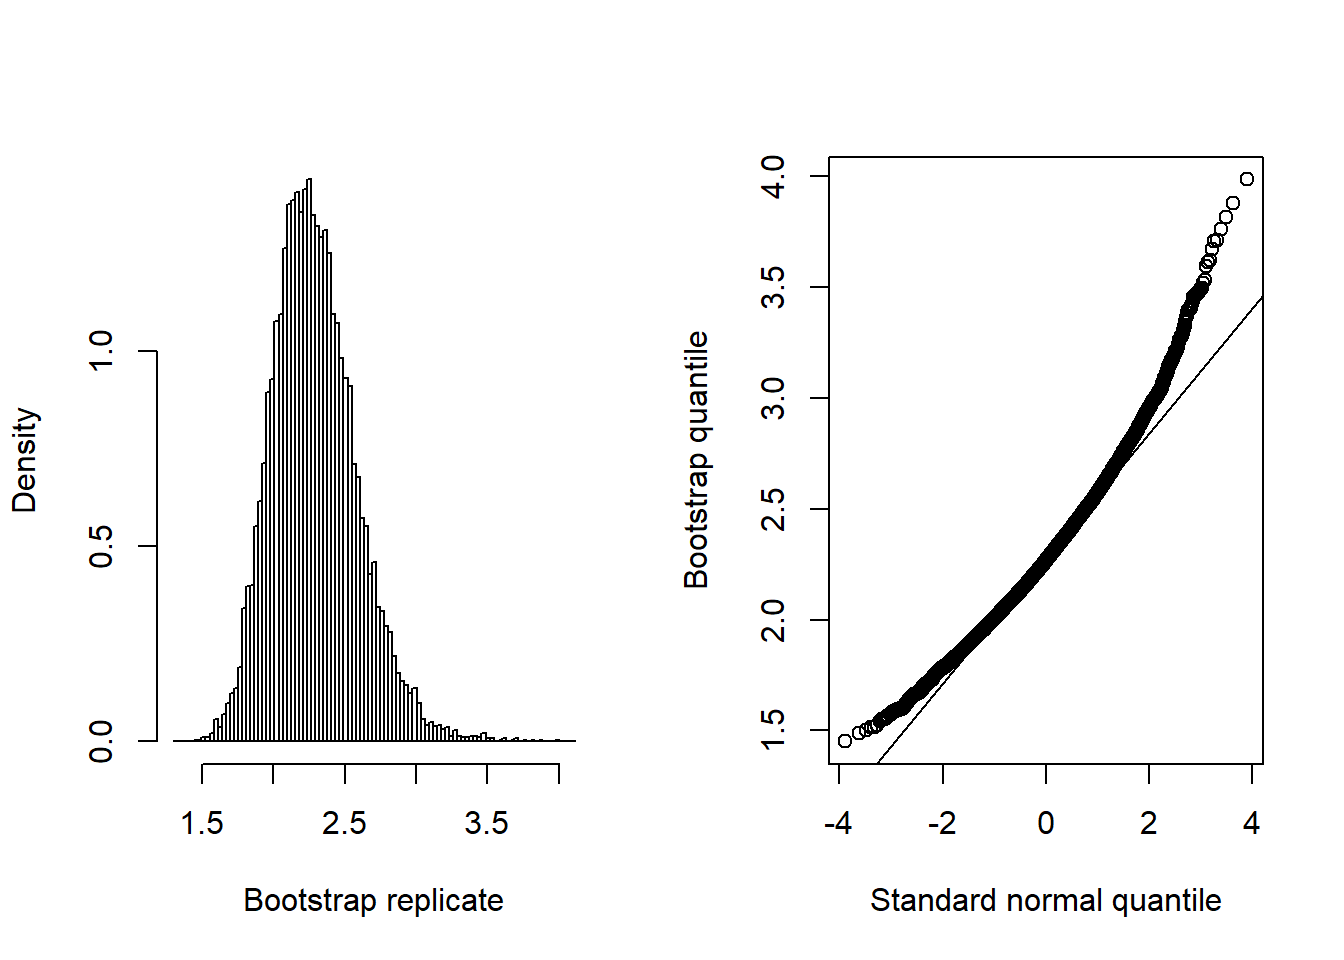
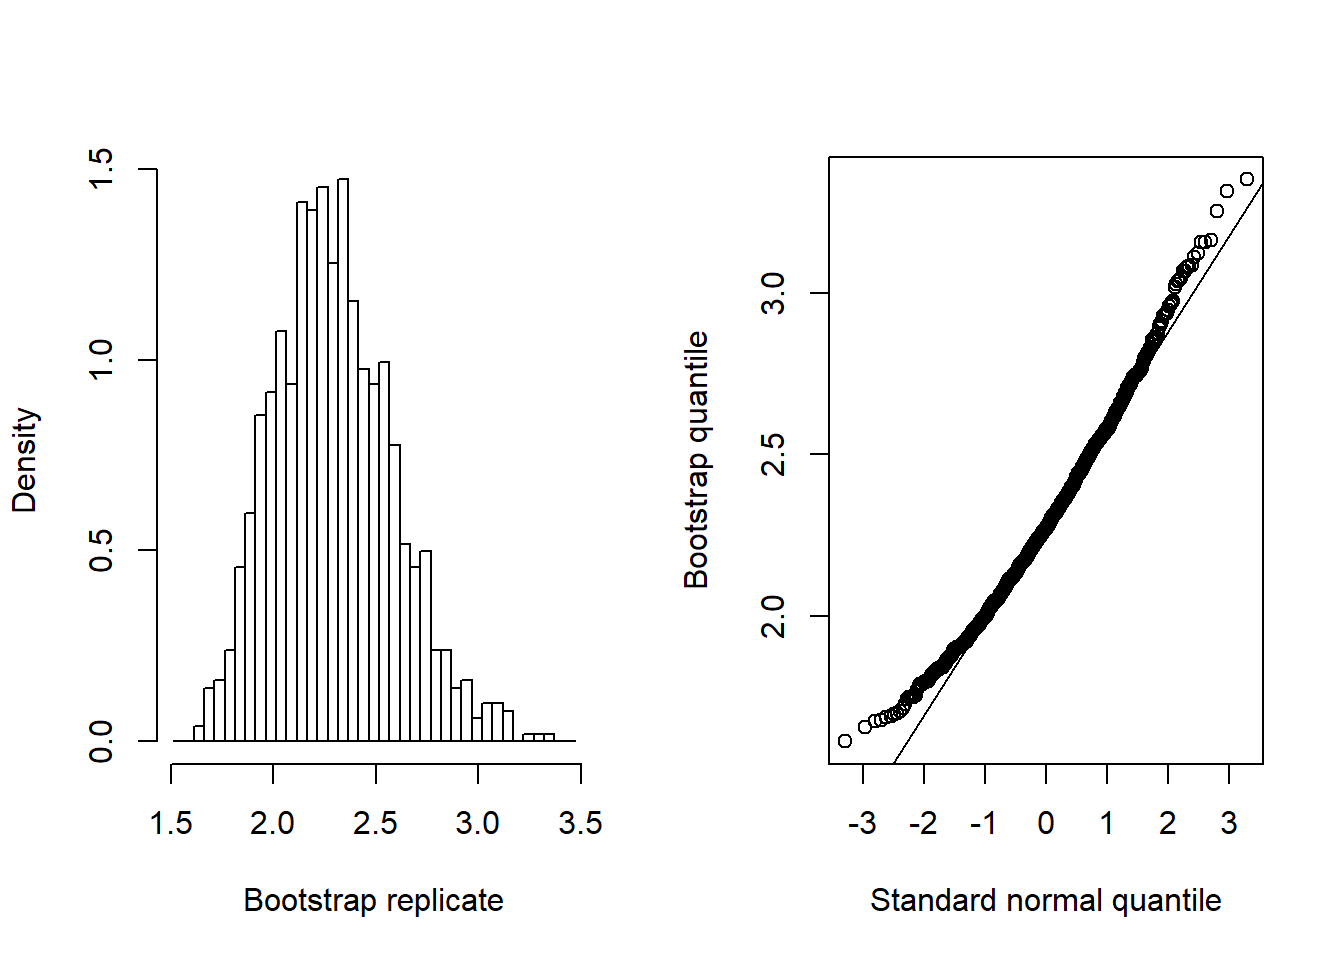
cleanup

diff --git a/about/index.html b/about/index.html
@@ -6,8 +6,8 @@
 <meta name="generator" content="Hugo 0.25.1" />
 
 
-<title>About - A Hugo website</title>
-<meta property="og:title" content="About - A Hugo website">
+<title>About Me - A Hugo website</title>
+<meta property="og:title" content="About Me - A Hugo website">
 
 
 
@@ -30,19 +30,19 @@
       <header class="header">
         <nav class="nav">
   <a href="/" class="nav-logo">
-    <img src="/images/logo.png"
-         width="50"
-         height="50"
-         alt="Logo">
+    <img src="/images/%3cnil%3e"
+         width=""
+         height=""
+         alt="">
   </a>
 
   <ul class="nav-links">
     
-    <li><a href="/about/">About</a></li>
+    <li><a href="/about/">About Me</a></li>
     
-    <li><a href="https://github.com/rstudio/blogdown">GitHub</a></li>
+    <li><a href="/post/">Blog</a></li>
     
-    <li><a href="https://twitter.com/rstudio">Twitter</a></li>
+    <li><a href="https://github.com/bgreenwell">GitHub</a></li>
     
   </ul>
 </nav>
@@ -55,12 +55,12 @@
   <article class="article">
     
 
-    <h1 class="article-title">About</h1>
+    <h1 class="article-title">About Me</h1>
 
     
 
     <div class="article-content">
-      <p>This is a &ldquo;hello world&rdquo; example website for the <a href="https://github.com/rstudio/blogdown"><strong>blogdown</strong></a> package. The theme was forked from <a href="https://github.com/jrutheiser/hugo-lithium-theme">@jrutheiser/hugo-lithium-theme</a> and modified by <a href="https://github.com/yihui/hugo-lithium-theme">Yihui Xie</a>.</p>
+      <p>I am currently a Data Scientist for the Air Force Institute of Technology Data Scenic Lab (AFIT-DSL) at Wright Patterson Air Force Base. My contact information can be found on my <a href="https://github.com/bgreenwell">GitHub page</a>.</p>
 
     </div>
   </article>

diff --git a/2017/08/09/happy-4th-birthday-to-the-investr-package/index.html b/2017/08/09/happy-4th-birthday-to-the-investr-package/index.html
@@ -35,19 +35,19 @@
       <header class="header">
         <nav class="nav">
   <a href="/" class="nav-logo">
-    <img src="/images/logo.png"
-         width="50"
-         height="50"
-         alt="Logo">
+    <img src="/images/%3cnil%3e"
+         width=""
+         height=""
+         alt="">
   </a>
 
   <ul class="nav-links">
     
-    <li><a href="/about/">About</a></li>
+    <li><a href="/about/">About Me</a></li>
     
-    <li><a href="https://github.com/rstudio/blogdown">GitHub</a></li>
+    <li><a href="/post/">Blog</a></li>
     
-    <li><a href="https://twitter.com/rstudio">Twitter</a></li>
+    <li><a href="https://github.com/bgreenwell">GitHub</a></li>
     
   </ul>
 </nav>
@@ -175,10 +175,10 @@ invest(nas.nls, y0 = c(309, 296, 419), interval = &quot;Wald&quot;)  </code></pr
 <p>The intervals both rely on large sample results and normality. In practice, the bootstrap may be more reliable:</p>
 <pre class="r"><code># Bootstrap calibration intervals (may take a few seconds)
 boo &lt;- invest(nas.nls, y0 = c(309, 296, 419), interval = &quot;percentile&quot;, 
-              nsim = 9999, seed = 101)
+              nsim = 999, seed = 101)
 boo  # print bootstrap summary</code></pre>
 <pre><code>##  estimate     lower     upper        se      bias 
-## 2.2638535 1.7889885 2.9380360 0.2946540 0.0281456</code></pre>
+## 2.2638535 1.8005534 2.9335622 0.2909187 0.0320422</code></pre>
 <pre class="r"><code>plot(boo)  # plot results</code></pre>
 <p><img src="/post/2017-08-09-happy-4th-birthday-to-the-investr-package_files/figure-html/unnamed-chunk-8-1.png" width="672" /></p>
 </div>

diff --git a/categories/r/index.html b/categories/r/index.html
@@ -32,19 +32,19 @@
       <header class="header">
         <nav class="nav">
   <a href="/" class="nav-logo">
-    <img src="/images/logo.png"
-         width="50"
-         height="50"
-         alt="Logo">
+    <img src="/images/%3cnil%3e"
+         width=""
+         height=""
+         alt="">
   </a>
 
   <ul class="nav-links">
     
-    <li><a href="/about/">About</a></li>
+    <li><a href="/about/">About Me</a></li>
     
-    <li><a href="https://github.com/rstudio/blogdown">GitHub</a></li>
+    <li><a href="/post/">Blog</a></li>
     
-    <li><a href="https://twitter.com/rstudio">Twitter</a></li>
+    <li><a href="https://github.com/bgreenwell">GitHub</a></li>
     
   </ul>
 </nav>

diff --git a/index.html b/index.html
@@ -33,19 +33,19 @@
       <header class="header">
         <nav class="nav">
   <a href="/" class="nav-logo">
-    <img src="/images/logo.png"
-         width="50"
-         height="50"
-         alt="Logo">
+    <img src="/images/%3cnil%3e"
+         width=""
+         height=""
+         alt="">
   </a>
 
   <ul class="nav-links">
     
-    <li><a href="/about/">About</a></li>
+    <li><a href="/about/">About Me</a></li>
     
-    <li><a href="https://github.com/rstudio/blogdown">GitHub</a></li>
+    <li><a href="/post/">Blog</a></li>
     
-    <li><a href="https://twitter.com/rstudio">Twitter</a></li>
+    <li><a href="https://github.com/bgreenwell">GitHub</a></li>
     
   </ul>
 </nav>

diff --git a/post/index.html b/post/index.html
@@ -32,19 +32,19 @@
       <header class="header">
         <nav class="nav">
   <a href="/" class="nav-logo">
-    <img src="/images/logo.png"
-         width="50"
-         height="50"
-         alt="Logo">
+    <img src="/images/%3cnil%3e"
+         width=""
+         height=""
+         alt="">
   </a>
 
   <ul class="nav-links">
     
-    <li><a href="/about/">About</a></li>
+    <li><a href="/about/">About Me</a></li>
     
-    <li><a href="https://github.com/rstudio/blogdown">GitHub</a></li>
+    <li><a href="/post/">Blog</a></li>
     
-    <li><a href="https://twitter.com/rstudio">Twitter</a></li>
+    <li><a href="https://github.com/bgreenwell">GitHub</a></li>
     
   </ul>
 </nav>

diff --git a/tags/calibration/index.html b/tags/calibration/index.html
@@ -32,19 +32,19 @@
       <header class="header">
         <nav class="nav">
   <a href="/" class="nav-logo">
-    <img src="/images/logo.png"
-         width="50"
-         height="50"
-         alt="Logo">
+    <img src="/images/%3cnil%3e"
+         width=""
+         height=""
+         alt="">
   </a>
 
   <ul class="nav-links">
     
-    <li><a href="/about/">About</a></li>
+    <li><a href="/about/">About Me</a></li>
     
-    <li><a href="https://github.com/rstudio/blogdown">GitHub</a></li>
+    <li><a href="/post/">Blog</a></li>
     
-    <li><a href="https://twitter.com/rstudio">Twitter</a></li>
+    <li><a href="https://github.com/bgreenwell">GitHub</a></li>
     
   </ul>
 </nav>

diff --git a/tags/inverse-estimation/index.html b/tags/inverse-estimation/index.html
@@ -32,19 +32,19 @@
       <header class="header">
         <nav class="nav">
   <a href="/" class="nav-logo">
-    <img src="/images/logo.png"
-         width="50"
-         height="50"
-         alt="Logo">
+    <img src="/images/%3cnil%3e"
+         width=""
+         height=""
+         alt="">
   </a>
 
   <ul class="nav-links">
     
-    <li><a href="/about/">About</a></li>
+    <li><a href="/about/">About Me</a></li>
     
-    <li><a href="https://github.com/rstudio/blogdown">GitHub</a></li>
+    <li><a href="/post/">Blog</a></li>
     
-    <li><a href="https://twitter.com/rstudio">Twitter</a></li>
+    <li><a href="https://github.com/bgreenwell">GitHub</a></li>
     
   </ul>
 </nav>

diff --git a/tags/regression/index.html b/tags/regression/index.html
@@ -32,19 +32,19 @@
       <header class="header">
         <nav class="nav">
   <a href="/" class="nav-logo">
-    <img src="/images/logo.png"
-         width="50"
-         height="50"
-         alt="Logo">
+    <img src="/images/%3cnil%3e"
+         width=""
+         height=""
+         alt="">
   </a>
 
   <ul class="nav-links">
     
-    <li><a href="/about/">About</a></li>
+    <li><a href="/about/">About Me</a></li>
     
-    <li><a href="https://github.com/rstudio/blogdown">GitHub</a></li>
+    <li><a href="/post/">Blog</a></li>
     
-    <li><a href="https://twitter.com/rstudio">Twitter</a></li>
+    <li><a href="https://github.com/bgreenwell">GitHub</a></li>
     
   </ul>
 </nav>
